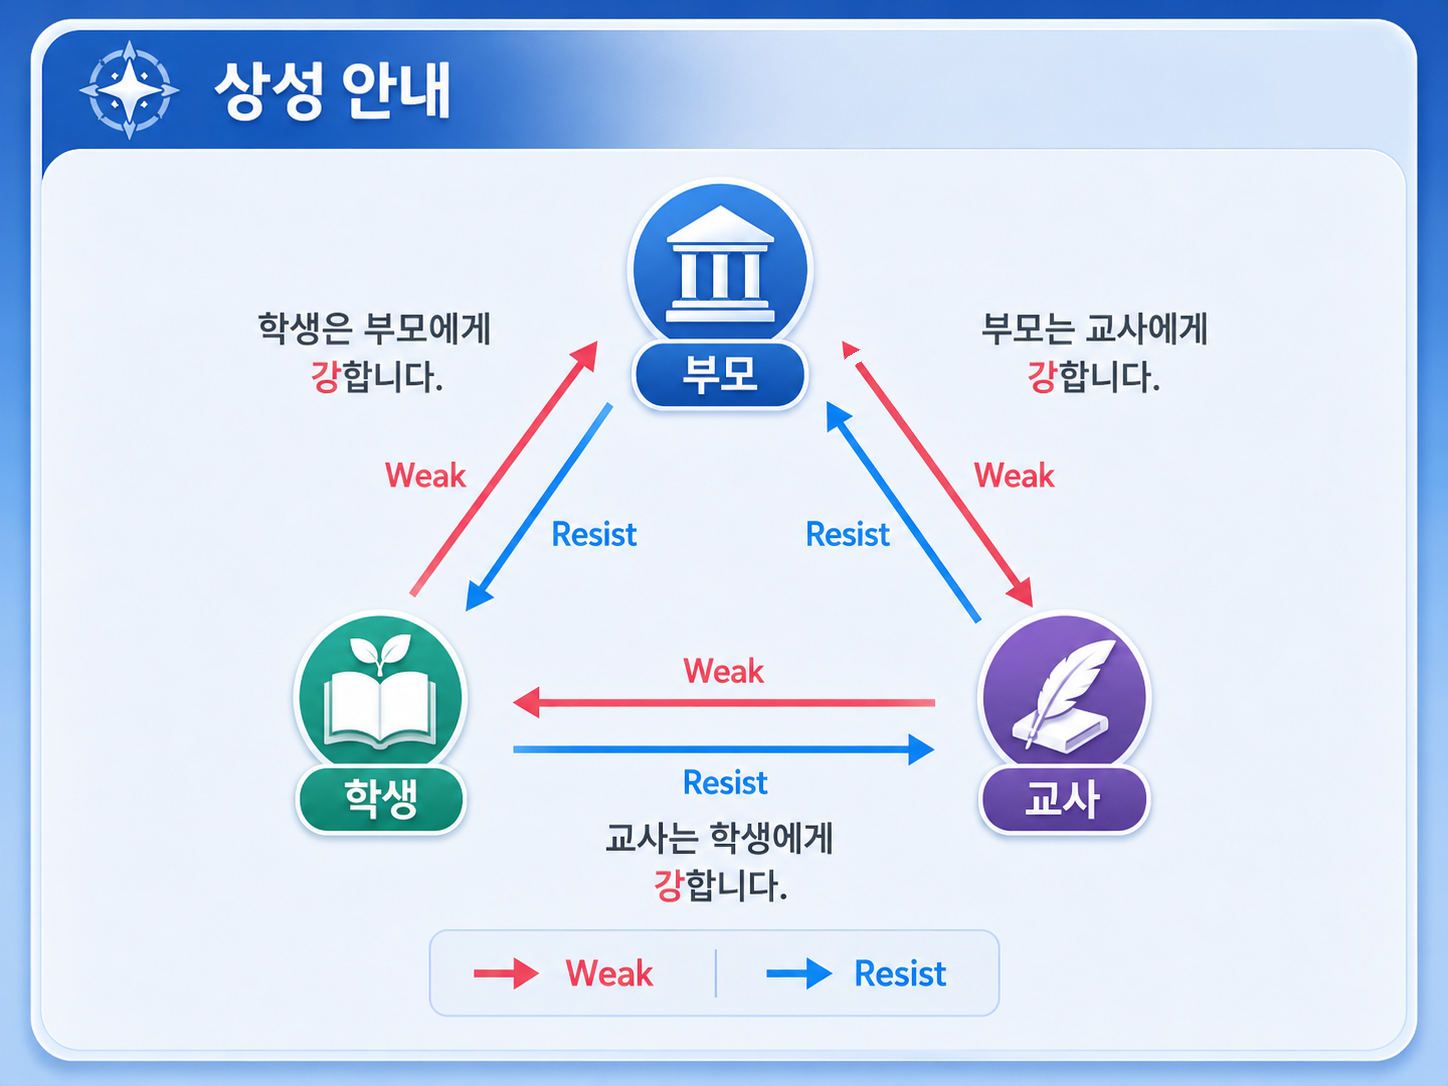
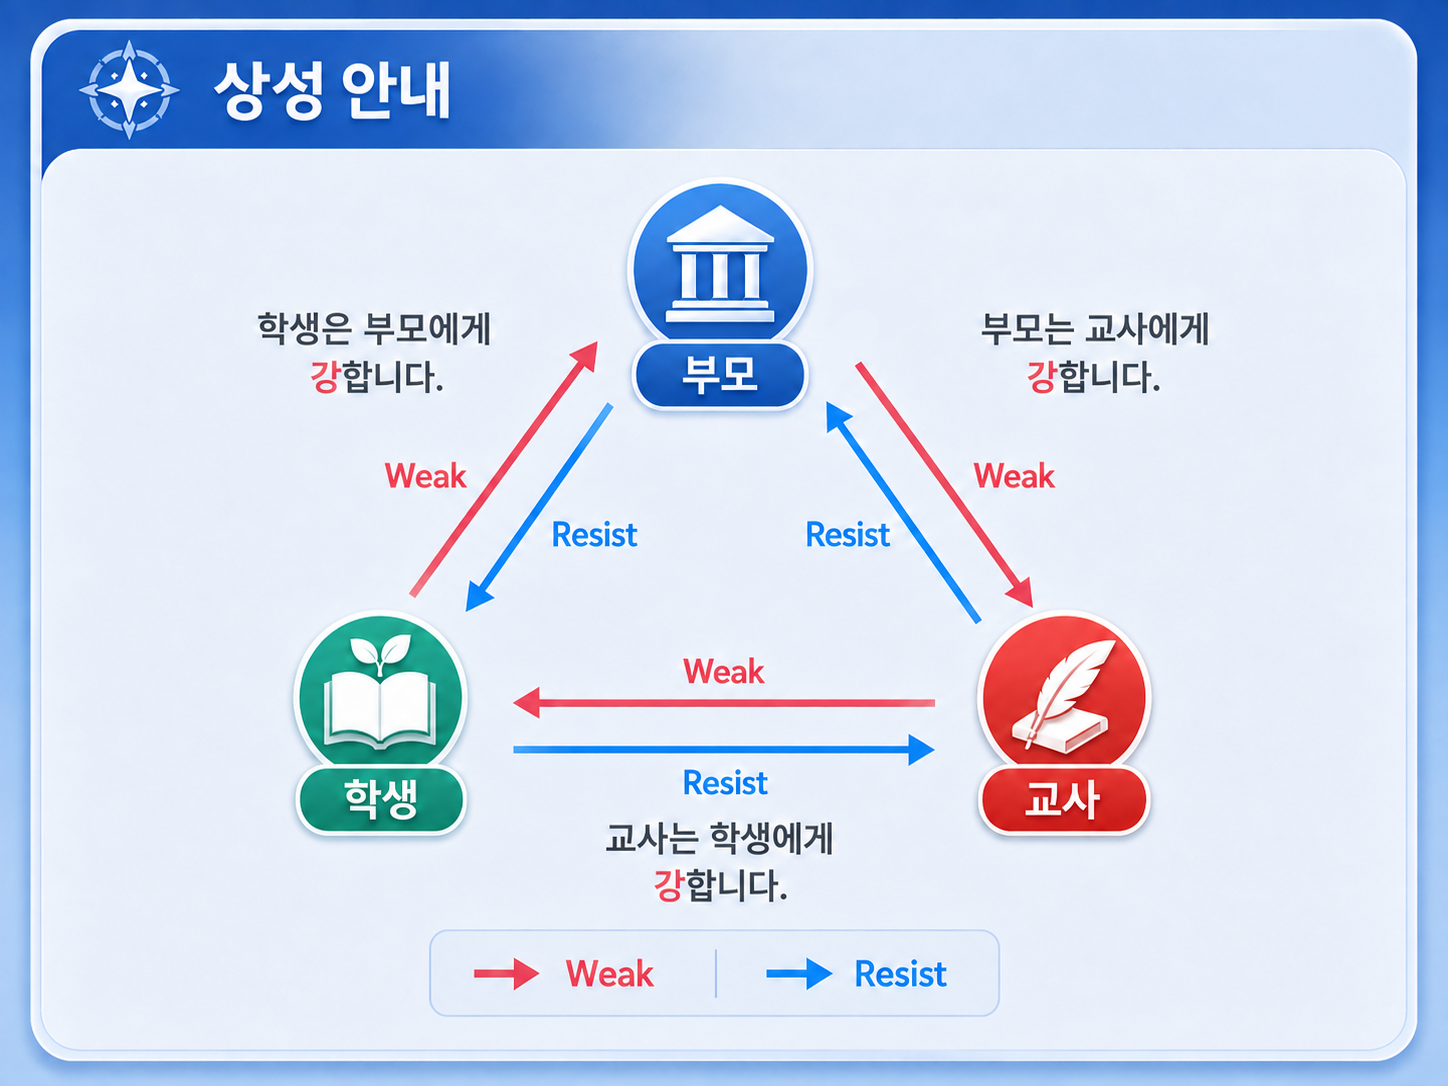
상점 티켓 구획을 강화 아이템과 같은 라벨 스타일로 변경(구분선 제거), 이름이 바뀐 기존 도전과제 개명 마이그레이션으로 중복 수령 방지, 도움말 이미지 갱신

diff --git a/shop/shop.css b/shop/shop.css
@@ -74,26 +74,6 @@
     color: #8a3131;
 }
 
-/* "강화 아이템"/"티켓" 구분선 - inventory.css의 .inventory-unowned-divider와 같은 순수 CSS 방식
-   (양옆 선은 ::before/::after의 border-top, 텍스트는 가운데). 이 안에서는 wrap 그리드가 아니라
-   가로 스크롤 한 줄짜리 섹션들 사이에 놓이는 일반 블록이라 grid-column 지정은 필요 없다. */
-.shop-section-divider {
-    display: flex;
-    align-items: center;
-    gap: 14px;
-    margin: 22px 0 14px;
-    color: #8a3131;
-    font-weight: 900;
-    font-size: 15px;
-}
-
-.shop-section-divider::before,
-.shop-section-divider::after {
-    content: "";
-    flex: 1;
-    border-top: 1px solid rgba(138, 49, 49, .35);
-}
-
 .shop-empty-inline {
     padding: 60px 20px;
     text-align: center;

diff --git a/shop/shop-partial.html b/shop/shop-partial.html
@@ -11,7 +11,7 @@
         <h3 class="shop-section-label">강화 아이템</h3>
         <div class="shop-item-row" id="shop-item-row"></div>
 
-        <div class="shop-section-divider"><span>티켓</span></div>
+        <h3 class="shop-section-label">티켓</h3>
         <div class="shop-item-row" id="shop-currency-row"></div>
     </section>
 </div>

diff --git a/backend/seed.py b/backend/seed.py
@@ -1598,9 +1598,47 @@ CHALLENGES = [
 ]
 
 
+# 이번 재화 시스템 개편에서 문구를 다듬으며 이름이 바뀐 "기존에 이미 운영 DB에 있던" 도전과제들
+# (old_name, new_name). seed_challenges()는 이름 기준 upsert라 이름이 바뀌면 그냥 새 행을 만들고
+# 옛 행은 그대로 남겨두는데, 그러면 이미 옛 이름으로 받은 유저가 새 이름으로 또 받을 수 있게 된다
+# (조건은 똑같은데 행만 2개가 되므로) - 그래서 시딩 전에 옛 이름 행을 새 이름으로 먼저 개명해서
+# 하나의 행(과 그 유저별 수령 기록)을 그대로 이어가게 한다. 한 번 개명되고 나면 old_name을 가진
+# 행이 없어지므로 이후 실행에서는 조용히 스킵된다(멱등).
+CHALLENGE_RENAMES = [
+    ("도감 Episode 1 No.1 획득", "인연 스토리 도감 Episode 1 No.1 획득"),
+    ("도감 Episode 1 No.2 획득", "인연 스토리 도감 Episode 1 No.2 획득"),
+    ("도감 Episode 1 No.3 획득", "인연 스토리 도감 Episode 1 No.3 획득"),
+    ("도감 Episode 1 No.4 획득", "인연 스토리 도감 Episode 1 No.4 획득"),
+    ("도감 Episode 1 No.5 획득", "인연 스토리 도감 Episode 1 No.5 획득"),
+    ("도감 Episode 1 No.6 획득", "인연 스토리 도감 Episode 1 No.6 획득"),
+    ("도감 Episode 1 No.7 획득", "인연 스토리 도감 Episode 1 No.7 획득"),
+    ("도감 Episode 1 No.8 획득", "인연 스토리 도감 Episode 1 No.8 획득"),
+    ("도감 Episode 1 No.9 획득", "인연 스토리 도감 Episode 1 No.9 획득"),
+    ("도감 Episode 1 No.10 획득", "인연 스토리 도감 Episode 1 No.10 획득"),
+    ("도감 Episode 1 No.11 획득", "인연 스토리 도감 Episode 1 No.11 획득"),
+    ("★5 이상 캐릭터로 전술대회 전투 참여 1회", "★5 이상 인물로 전술대회 전투 참여 1회"),
+    ("여성 캐릭터를 사용해 과목으로 누적 1000exp 획득", "여성 인물과 함께 과목으로 누적 1000exp 획득"),
+    ("직업:학생과 함께 과목으로 누적 1000exp 획득", "전부 직업이 학생인 인물과 함께 과목으로 누적 1000exp 획득"),
+    ("직업:마법사를 사용해 과목으로 누적 1000exp 획득", "전부 직업이 마법사인 인물과 함께 과목으로 누적 1000exp 획득"),
+]
+
+
 def seed_challenges():
     db = SessionLocal()
     try:
+        rename_changed = False
+        for old_name, new_name in CHALLENGE_RENAMES:
+            old_row = db.query(Challenge).filter(Challenge.name == old_name).first()
+            if not old_row:
+                continue
+            new_row = db.query(Challenge).filter(Challenge.name == new_name).first()
+            if new_row:
+                continue
+            old_row.name = new_name
+            rename_changed = True
+        if rename_changed:
+            db.commit()
+
         existing_rows = {row.name: row for row in db.query(Challenge).all()}
         changed = False
 
